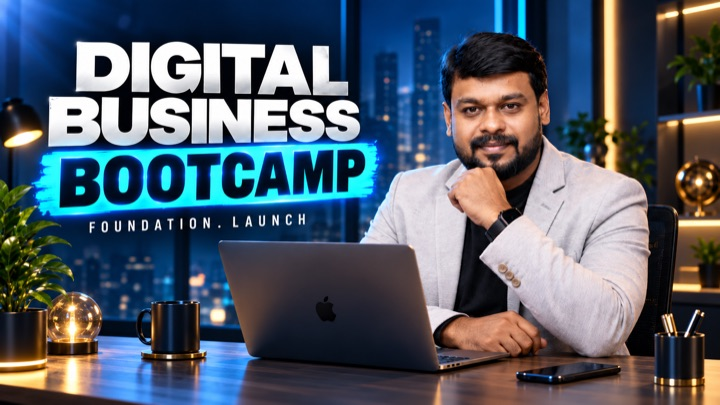
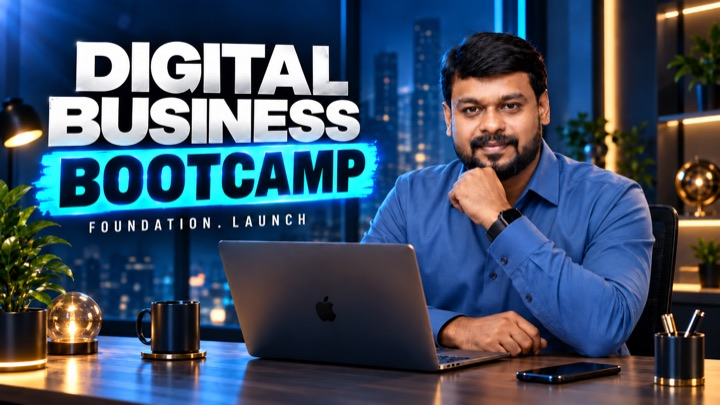
Update start-screen thumbnail to blue-shirt version
- Regenerated thumbnail.jpg (1344px) and thumbnail-720.jpg (720px)
  from 'Bootcamp Thumbnail Final.png'
- Added ?v=2 to the image URLs so browsers don't show the cached old image

Changed region(s): [[0.4889, 0.3259, 0.9167, 0.9481]]

diff --git a/index.html b/index.html
@@ -572,7 +572,7 @@ function welcomeHTML() {
   return `
   <div class="inner center">
     <div class="hero-thumb">
-      <img src="thumbnail.jpg" srcset="thumbnail-720.jpg 720w, thumbnail.jpg 1344w" sizes="(max-width: 700px) 100vw, 640px"
+      <img src="thumbnail.jpg?v=2" srcset="thumbnail-720.jpg?v=2 720w, thumbnail.jpg?v=2 1344w" sizes="(max-width: 700px) 100vw, 640px"
         width="1344" height="756" alt="Digital Business Bootcamp" fetchpriority="high" decoding="async" />
     </div>
     <h1 class="hero-title">${resuming ? `Welcome back${name ? ", " + esc(name) : ""}` : `Business Understanding <span class="accent">Form</span>`}</h1>
